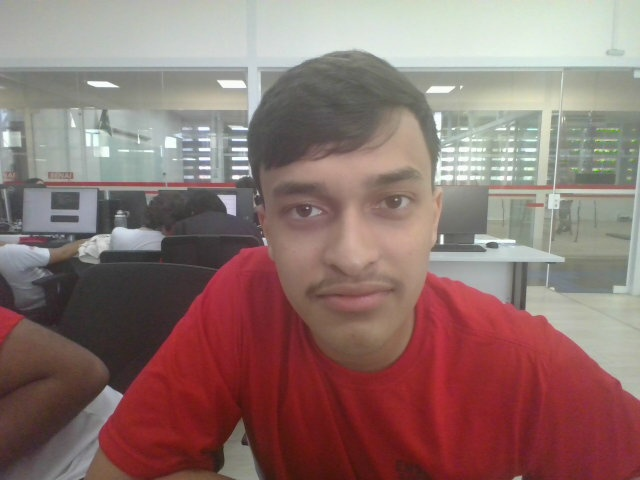
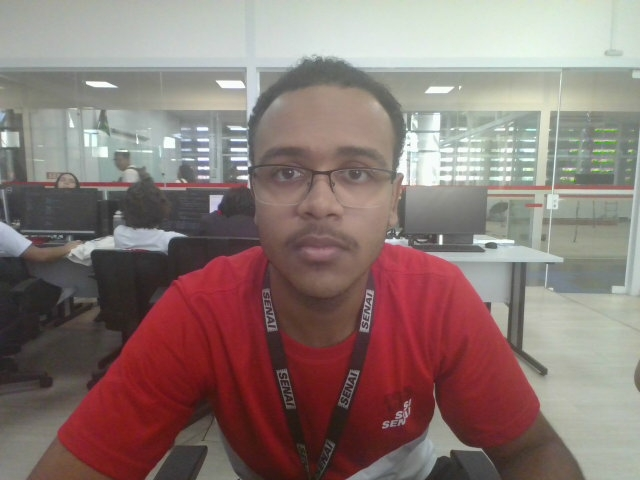
Add files via upload

diff --git a/reconhecimentoFacial/reconhecimento.py b/reconhecimentoFacial/reconhecimento.py
@@ -1,54 +1,130 @@
-from deepface import DeepFace
+import cv2
 from pathlib import Path
-import numpy as np
+from deepface import DeepFace
+import pandas as pd
+import os
 
+# ==========================================
+# FUNÇÕES DO SISTEMA
+# ==========================================
 
-def calcular_distancia_cosseno(vetor1, vetor2):
-    a = np.array(vetor1)
-    b = np.array(vetor2)
-    return 1 - (np.dot(a, b) / (np.linalg.norm(a) * np.linalg.norm(b)))
-
-caminho_pasta = Path("rostosCadastrados")
-extensoes_validas = {".jpg", ".jpeg", ".png"}
-
-# --- 1. PROCESSAR FOTO ATUAL (Apenas uma vez) ---
-print("Extraindo vetor da foto da webcam...")
-embedding_atual = DeepFace.represent(
-    img_path="foto_webcam.jpg", 
-    model_name="Facenet512",
-    detector_backend="mtcnn",
-    enforce_detection=True
-)[0]["embedding"]
-
-acesso_liberado = False
-limiar_tolerancia = 0.30  # Limite para o modelo Facenet512 (menor = mais rigoroso)
-
-# --- 2. PERCORRER A PASTA DE CADASTRADOS ---
-for arquivo in caminho_pasta.iterdir():
-    if arquivo.suffix.lower() in extensoes_validas:
+def limpar_cache_deepface(pasta_db):
+    """Apaga os arquivos de cache do DeepFace para forçar a leitura de novos cadastros."""
+    pasta = Path(pasta_db)
+    for arquivo in pasta.glob("*.pkl"):
         try:
-            # Passamos o caminho do arquivo direto como String para o DeepFace
-            embedding_cadastrado = DeepFace.represent(
-                img_path=str(arquivo), 
-                model_name="Facenet512",
-                detector_backend="mtcnn",
-                enforce_detection=True
-            )[0]["embedding"]
-
-            # Compara os dois vetores numericamente
-            distancia = calcular_distancia_cosseno(embedding_atual, embedding_cadastrado)
-
-            # Verifica se está dentro da margem de aceitação
-            if distancia <= limiar_tolerancia:
-                nome_pessoa = arquivo.stem  # Pega o nome do arquivo sem a extensão .jpg
-                print(f"✅ Acesso LIBERADO! Rosto identificado: {nome_pessoa} (Distância: {distancia:.2f})")
-                acesso_liberado = True
-                break  # Encerra a busca assim que encontrar uma correspondência
-            else:
-                print(f"Diferente de {arquivo.stem} (Distância: {distancia:.2f})")
-
+            arquivo.unlink()
+            print(f" Cache atualizado: {arquivo.name} removido.")
         except Exception as e:
-            print(f"Erro ao processar {arquivo.name}: {e}")
+            print(f"Erro ao remover cache: {e}")
 
-if not acesso_liberado:
-    print("❌ Acesso NEGADO: Nenhuma correspondência encontrada na pasta.")
+def validar_acesso(img_path, db_path):
+    """Verifica se a foto atual corresponde a alguém no banco de dados."""
+    try:
+        print("\n Analisando rosto e buscando correspondências no banco de dados...")
+        
+        resultados = DeepFace.find(
+            img_path=str(img_path),
+            db_path=str(db_path),
+            model_name="Facenet512",
+            detector_backend="mtcnn", # mtcnn ou retinaface são ótimos
+            distance_metric="cosine",
+            enforce_detection=True,
+            silent=True
+        )
+        
+        df_resultado = resultados[0]
+        
+        if not df_resultado.empty:
+            melhor_match = df_resultado.iloc[0]
+            caminho_arquivo = melhor_match["identity"]
+            distancia = melhor_match["distance"]
+            
+            # Pega o nome do arquivo de forma segura, independente de ser Windows ou Linux/Mac
+            nome_pessoa = Path(caminho_arquivo).stem 
+            
+            print(f"\n ACESSO LIBERADO! \n Bem-vindo(a), {nome_pessoa}! \n(Distância/Confiança: {distancia:.2f})")
+        else:
+            print("\n ACESSO NEGADO: Rosto não reconhecido.")
+            
+    except ValueError:
+        print("\n ACESSO NEGADO: Nenhum rosto humano detectado na foto. Tente novamente em um local mais iluminado.")
+    except Exception as e:
+        print(f"\n Erro inesperado na validação: {e}")
+
+
+# ==========================================
+# FLUXO PRINCIPAL (MENU E CÂMERA)
+# ==========================================
+
+pasta_cadastro = Path("rostosCadastrados")
+pasta_cadastro.mkdir(exist_ok=True)
+
+print("=== SISTEMA DE CONTROLE DE ACESSO ===")
+print("1 - Cadastrar novo rosto")
+print("2 - Validar acesso (Webcam)")
+opcao = input("Escolha a opção (1 ou 2): ").strip()
+
+# --- Configuração das Opções ---
+if opcao == "1":
+    nome_pessoa = input("Digite o nome ou ID do crachá da pessoa: ").strip()
+    if not nome_pessoa:
+        qtd_arquivos = len(list(pasta_cadastro.glob("*.jpg")))
+        caminho_salvar = pasta_cadastro / f"pessoa_{qtd_arquivos + 1}.jpg"
+    else:
+        caminho_salvar = pasta_cadastro / f"{nome_pessoa}.jpg"
+    
+    titulo_janela = f"Cadastro: {caminho_salvar.name}"
+
+elif opcao == "2":
+    caminho_salvar = Path("foto_webcam.jpg")
+    titulo_janela = "Validacao de Acesso (ESC para cancelar, ESPACO para capturar)"
+
+else:
+    print("Opção inválida! Encerrando...")
+    exit()
+
+# --- Captura da Câmera ---
+camera = cv2.VideoCapture(0)
+
+print("\nInstruções da Câmera:")
+print(" - Olhe para a câmera.")
+print(" - Pressione 'ESPAÇO' ou 's' para tirar a foto.")
+print(" - Pressione 'ESC' ou 'q' para cancelar.\n")
+
+foto_tirada = False
+
+while True:
+    ret, frame = camera.read()
+    if not ret:
+        print("Erro ao acessar a câmera.")
+        break
+
+    cv2.imshow(titulo_janela, frame)
+    key = cv2.waitKey(1) & 0xFF
+
+    if key == 32 or key == ord('s'): # ESPAÇO ou 'S'
+        cv2.imwrite(str(caminho_salvar), frame, [cv2.IMWRITE_JPEG_QUALITY, 100])
+        print(f"Foto salva com sucesso: {caminho_salvar}")
+        foto_tirada = True
+        break
+
+    elif key == 27 or key == ord('q'): # ESC ou 'Q'
+        print("Operação cancelada pelo usuário.")
+        break
+
+camera.release()
+cv2.destroyAllWindows()
+
+# ==========================================
+# AÇÕES PÓS-CAPTURA
+# ==========================================
+
+if foto_tirada:
+    if opcao == "1":
+        print("\n✅ Cadastro realizado com sucesso!")
+        limpar_cache_deepface(pasta_cadastro) # Limpa o cache para reconhecer a nova pessoa
+        
+    elif opcao == "2":
+        # Chama a função que faz a mágica do DeepFace
+        validar_acesso(caminho_salvar, pasta_cadastro)
